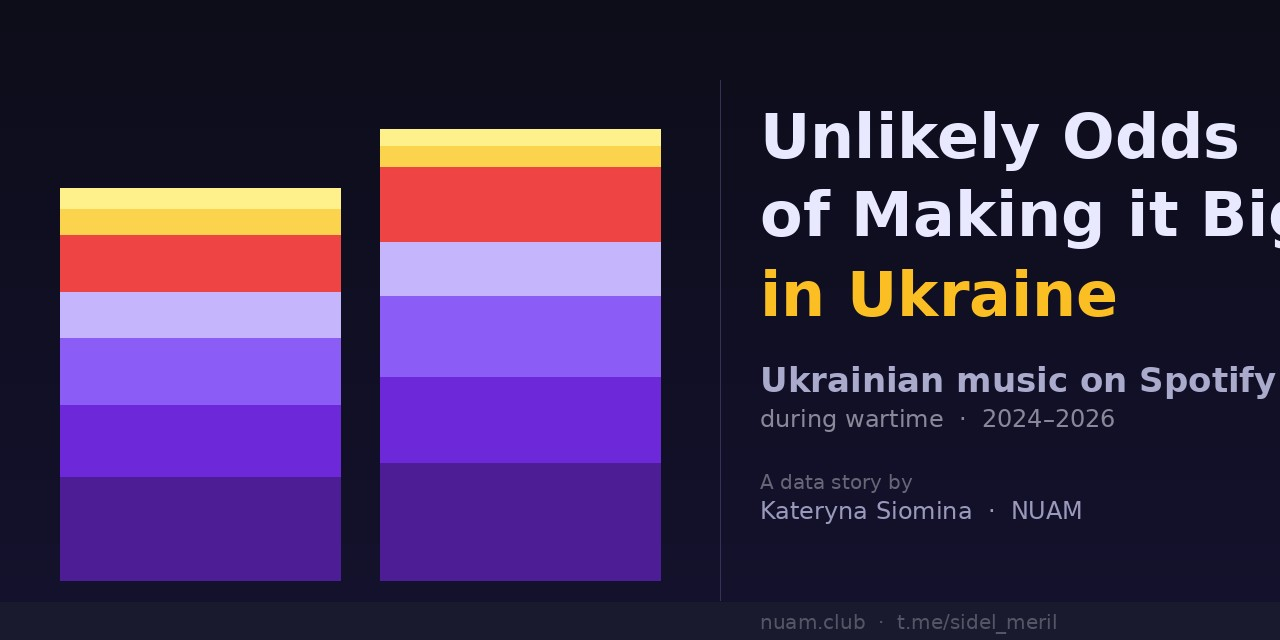
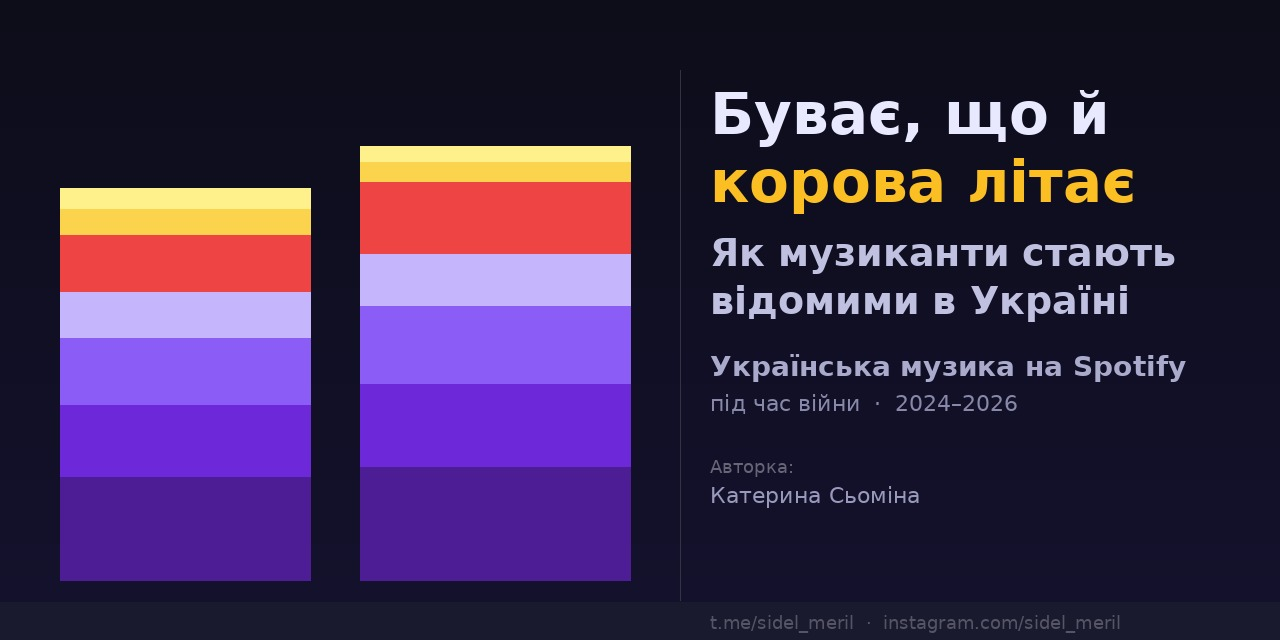
og preview: Ukrainian text, remove NUAM, correct authorship to Kateryna Siomina
Made-with: Cursor

Changed region(s): [[0.2188, 0.125, 1.0, 0.9062], [0.5625, 0.9688, 0.875, 1.0]]

diff --git a/data/charts/ukraine-music-story/index.html b/data/charts/ukraine-music-story/index.html
@@ -8,22 +8,22 @@
   <!-- Open Graph / Telegram link preview -->
   <meta property="og:type"         content="article" />
   <meta property="og:url"          content="https://sidel-meril.github.io/making-it-big-ukraine-music/" />
-  <meta property="og:title"        content="The Unlikely Odds of Making it Big in Ukraine" />
-  <meta property="og:description"  content="A data story about Ukrainian music on Spotify during wartime — audience growth, tier distribution and market value, 2024–2026. By Kateryna Siomina · NUAM." />
+  <meta property="og:title"        content="Буває, що й корова літає — як музиканти стають відомими в Україні" />
+  <meta property="og:description"  content="Дані про українську музику на Spotify під час війни — зростання аудиторії, розподіл за рівнями та ринкова вартість, 2024–2026. Авторка: Катерина Сьоміна." />
   <meta property="og:image"        content="https://sidel-meril.github.io/making-it-big-ukraine-music/og-preview.jpg" />
   <meta property="og:image:width"  content="1280" />
   <meta property="og:image:height" content="640" />
-  <meta property="og:site_name"    content="NUAM Data Stories" />
-  <meta property="article:author"  content="Kateryna Siomina" />
+  <meta property="og:site_name"    content="Катерина Сьоміна" />
+  <meta property="article:author"  content="Катерина Сьоміна" />
 
   <!-- Twitter card — also triggers large banner in Telegram -->
   <meta name="twitter:card"        content="summary_large_image" />
-  <meta name="twitter:title"       content="The Unlikely Odds of Making it Big in Ukraine" />
-  <meta name="twitter:description" content="A data story about Ukrainian music on Spotify during wartime — audience growth, tier distribution and market value, 2024–2026." />
+  <meta name="twitter:title"       content="Буває, що й корова літає — як музиканти стають відомими в Україні" />
+  <meta name="twitter:description" content="Дані про українську музику на Spotify під час війни — зростання аудиторії, розподіл за рівнями та ринкова вартість, 2024–2026." />
   <meta name="twitter:image"       content="https://sidel-meril.github.io/making-it-big-ukraine-music/og-preview.jpg" />
 
   <!-- SEO -->
-  <meta name="description" content="A data story about Ukrainian music on Spotify during wartime — audience growth, tier distribution and market value, 2024–2026. By Kateryna Siomina · NUAM." />
+  <meta name="description" content="Дані про українську музику на Spotify під час війни — зростання аудиторії, розподіл за рівнями та ринкова вартість, 2024–2026. Авторка: Катерина Сьоміна." />
   <link rel="canonical" href="https://sidel-meril.github.io/making-it-big-ukraine-music/" />
   <link rel="preconnect" href="https://fonts.googleapis.com" />
   <link rel="preconnect" href="https://fonts.gstatic.com" crossorigin />
